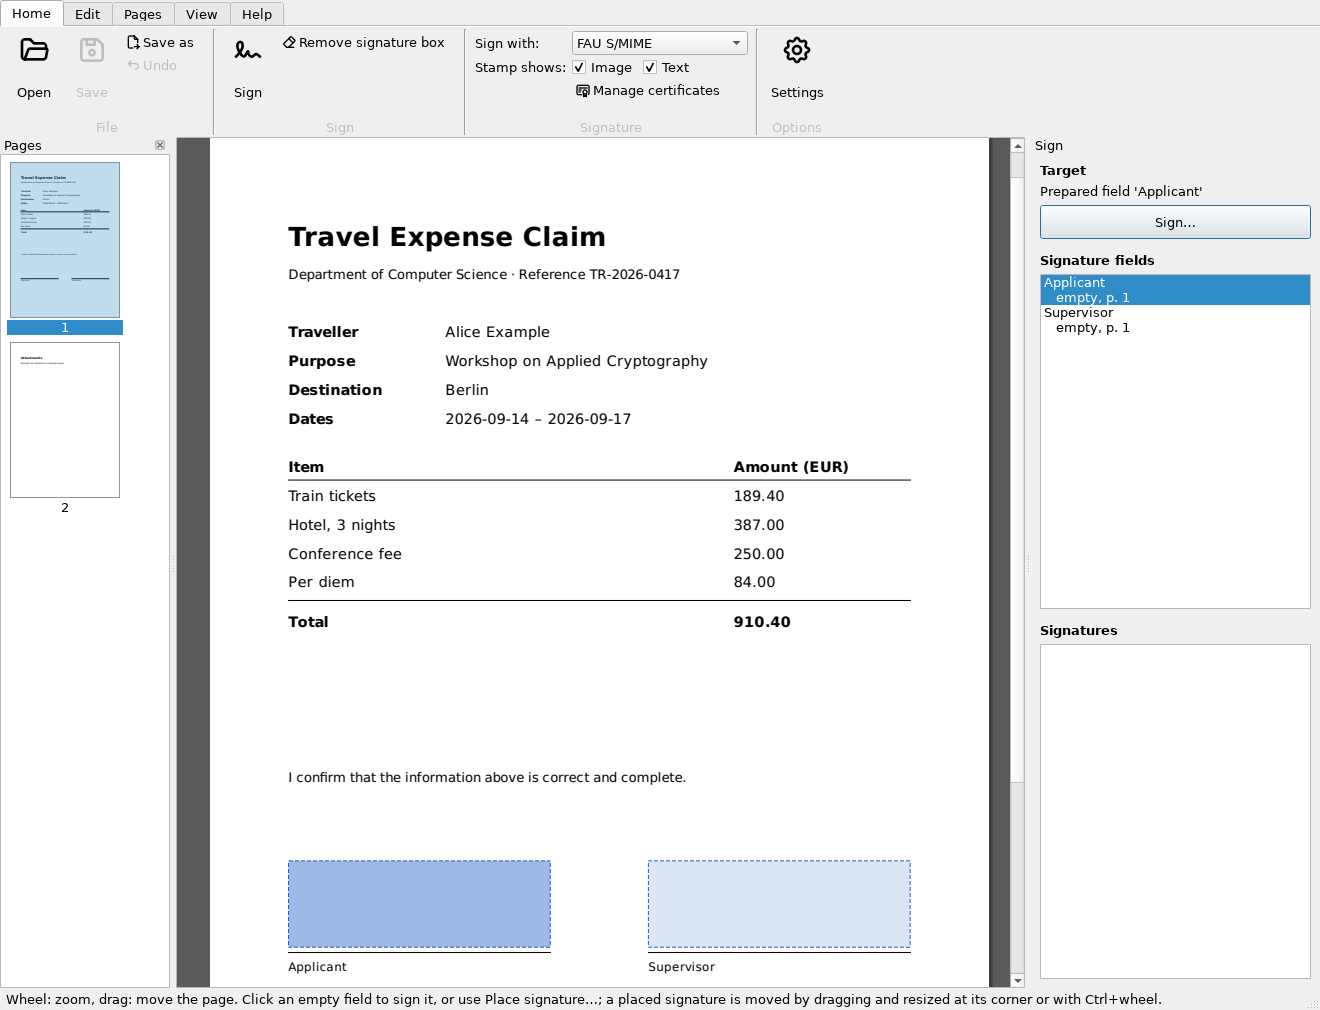
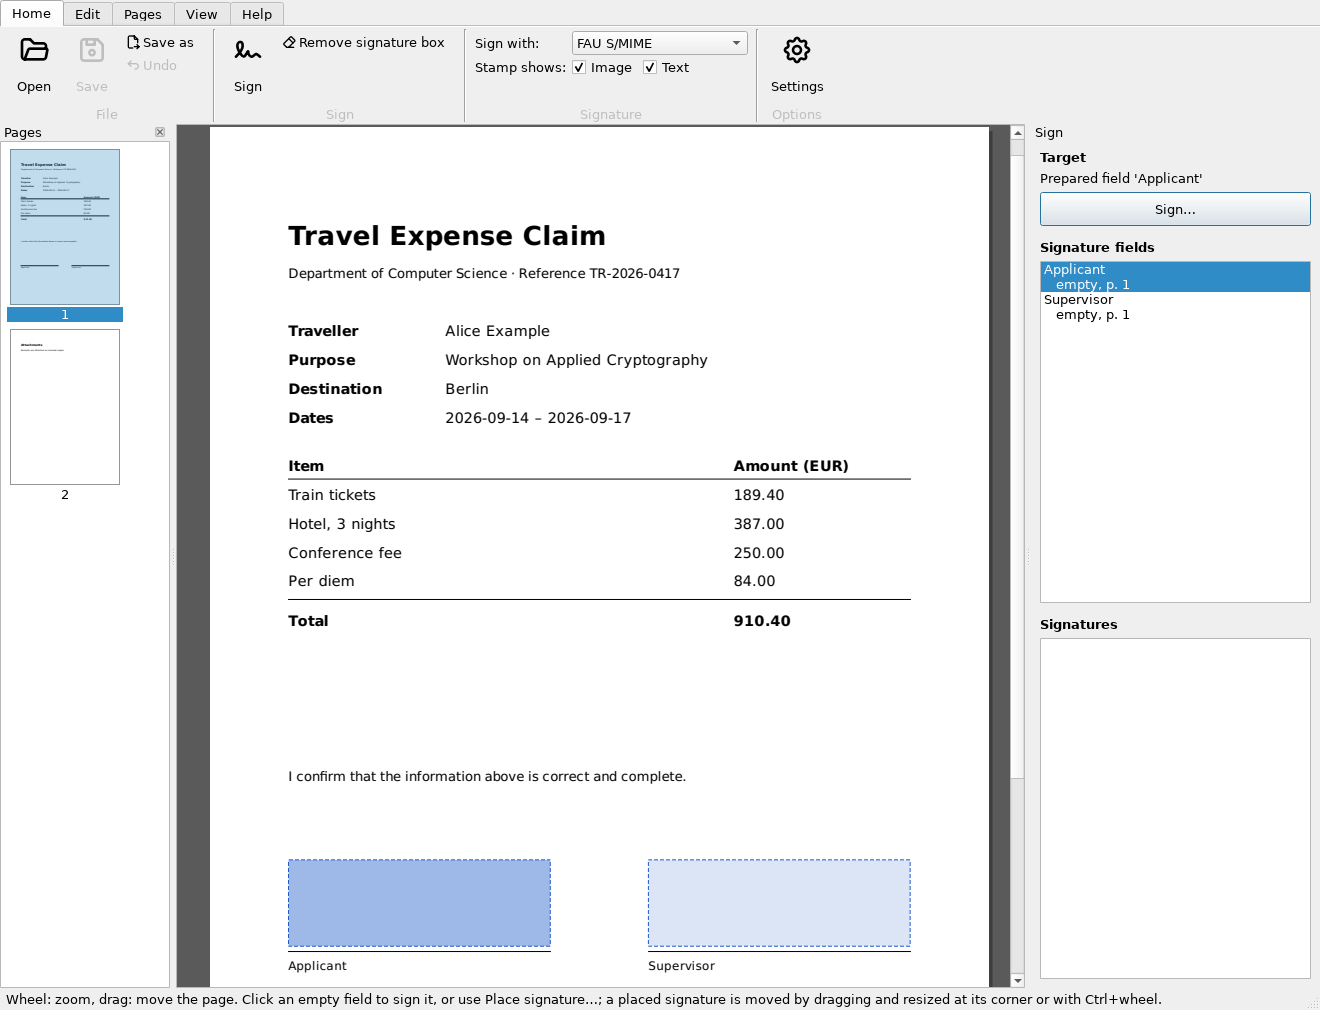
Ribbon: remove Manage certificates…
Certificates are managed on the Certificates tab of Settings…, which
the ribbon already offers; the extra entry point (and its icon) goes.

diff --git a/src/slim_pdf/gui/app.py b/src/slim_pdf/gui/app.py
@@ -8,7 +8,7 @@ import sys
 from importlib import metadata
 from pathlib import Path
 
-from PySide6.QtCore import QLibraryInfo, QLocale, QSize, Qt, QTranslator, QUrl, qVersion
+from PySide6.QtCore import QLibraryInfo, QLocale, Qt, QTranslator, QUrl, qVersion
 from PySide6.QtGui import (
     QAction,
     QColor,
@@ -36,7 +36,6 @@ from PySide6.QtWidgets import (
     QMessageBox,
     QPushButton,
     QSpinBox,
-    QToolButton,
     QVBoxLayout,
     QWidget,
 )
@@ -189,9 +188,6 @@ class MainWindow(QMainWindow):
                                "the chosen field (Esc)"))
         self.settings_act = act(_("Settings…"), self.settings_dialog, QKeySequence.Preferences,
                                 "settings")
-        self.manage_act = act(_("Manage certificates…"), self.manage_certs, None,
-                              "certificate", _("Add, edit or remove certificates (in the "
-                                               "settings)"))
         # what the stamp shows; the certificate is picked in the ribbon's combo box
         self.cert_combo = QComboBox()
         self.cert_combo.setToolTip(_("The certificate to sign with"))
@@ -282,12 +278,6 @@ class MainWindow(QMainWindow):
         row.addWidget(self.text_box)
         row.addStretch()
         fl.addRow(_("Stamp shows:"), stamp)
-        manage = QToolButton()
-        manage.setDefaultAction(self.manage_act)
-        manage.setAutoRaise(True)
-        manage.setToolButtonStyle(Qt.ToolButtonTextBesideIcon)
-        manage.setIconSize(QSize(ribbon.SMALL_ICON, ribbon.SMALL_ICON))
-        fl.addRow("", manage)
         g.add_widget(form)
         g = home.group(_("Options"))
         g.add(self.settings_act)
@@ -481,8 +471,9 @@ class MainWindow(QMainWindow):
     def open_docs(self) -> None:
         QDesktopServices.openUrl(QUrl(DOCS_URL))
 
-    def settings_dialog(self, tab: int = SettingsDialog.GENERAL) -> None:
-        dlg = SettingsDialog(self.config, self, tab)
+    def settings_dialog(self) -> None:
+        """Settings…, also for the certificates (their own tab)."""
+        dlg = SettingsDialog(self.config, self)
         accepted = dlg.exec()
         if not (accepted or dlg.certs.changed):
             return
@@ -496,9 +487,6 @@ class MainWindow(QMainWindow):
         if dlg.language_changed:
             QMessageBox.information(self, _("Settings"),
                                     _("The new language is used after restarting Slim PDF."))
-
-    def manage_certs(self) -> None:
-        self.settings_dialog(SettingsDialog.CERTIFICATES)
 
     # documents ----------------------------------------------------------------
 

diff --git a/tests/test_gui.py b/tests/test_gui.py
@@ -882,14 +882,16 @@ def test_dialog_store_keyring(open_editor, monkeypatch, mem_keyring):
 
 
 def test_manage_updates_main_window(window, monkeypatch, tmp_path):
-    """Certificates… opens the settings on their Certificates tab; profiles
-    are saved as they change, so they stay even when the dialog is cancelled."""
+    """Certificates are managed on the Certificates tab of the settings;
+    profiles are saved as they change, so they stay even when the dialog is
+    cancelled."""
     from slim_pdf.gui import settings as gui_settings
 
     window.config.path = tmp_path / "config.toml"
     seen = []
 
     def fake_exec(self):
+        self.tabs.setCurrentWidget(self.certs)
         seen.append(self.tabs.currentWidget())
         self.config.certs["new"] = CertProfile(name="new", path="x.p12")
         self.certs._write()
@@ -897,7 +899,7 @@ def test_manage_updates_main_window(window, monkeypatch, tmp_path):
         return 0  # cancelled
 
     monkeypatch.setattr(gui_settings.SettingsDialog, "exec", fake_exec)
-    window.manage_act.trigger()
+    window.settings_act.trigger()
     assert [type(w) for w in seen] == [CertManager]
     names = [window.cert_combo.itemData(i) for i in range(window.cert_combo.count())]
     assert names == ["alice", "bob", "new"]
@@ -1524,6 +1526,11 @@ def test_signing_keeps_the_stored_certificate_current(window, form_pdf, save_to,
     assert stored is not None and certinfo.signer_name(stored) == "Alice Example"
 
 
+def page_buttons(rb):
+    return [b for i in range(rb.count())
+            for b in rb.tab_page(i).findChildren(QtWidgets.QToolButton)]
+
+
 def test_ribbon_tabs_and_about(window, monkeypatch):
     """The ribbon replaces the toolbars; Help → About names the version."""
     rb = window.ribbon
@@ -1533,7 +1540,9 @@ def test_ribbon_tabs_and_about(window, monkeypatch):
     home = [b.defaultAction() for b in rb.tab_page(0).findChildren(QtWidgets.QToolButton)]
     assert window.open_act in home and window.sign_act in home
     # everything the sign panel had as controls is in the ribbon now
-    assert window.manage_act in home and window.clear_act in home
+    assert window.settings_act in home and window.clear_act in home
+    texts = [b.text() for b in page_buttons(rb)]
+    assert not any("ertificate" in t for t in texts)  # managed in Settings only
     page = rb.tab_page(0)
     labels = [lbl.text() for lbl in page.findChildren(QtWidgets.QLabel)]
     assert "Sign with:" in labels and "Stamp shows:" in labels

diff --git a/docs/gui.md b/docs/gui.md
@@ -22,8 +22,8 @@ guide show the English version.
   * *Home:* **Open…** (`Ctrl+O`), **Save**, **Save as…**, **Undo**;
     **Place signature… / Sign…** (`Ctrl+S`) and **Remove signature box**
     (`Esc`); the signature's settings: **Sign with** (the certificate),
-    **Stamp shows** *Image* and/or *Text*, **Manage certificates…**;
-    **Settings…**.
+    **Stamp shows** *Image* and/or *Text*; **Settings…** (also for the
+    certificates).
   * *Edit:* **Fill in form…** (see [Filling in forms](#filling-in-forms));
     **Text…** and **Image…** (see [Adding text and images](#adding-text-and-images)).
   * *Pages:* rotate, crop and delete pages (see [Page tools](#page-tools)).
@@ -134,7 +134,7 @@ see now is not exactly what was signed. The tooltip says which changes.
 Click a signature to jump to its page. Double-click it (or click the signed
 field on the page) for its details: the verdict, time, what it covers and
 any problems, then the signer's certificate in the same form as
-*Manage certificates…* → *Details…* shows your own, and pyHanko's full report behind *Full report…*.
+*Settings…* → *Certificates* → *Details…* shows your own, and pyHanko's full report behind *Full report…*.
 The tooltip shows what the signature covers. Extra trusted roots come from
 *Settings…* (or `trust = [...]` in the config file, see
 [cli.md](cli.md#check-signatures-slim-pdf-verify)).
@@ -233,8 +233,8 @@ profiles; **OK** saves them, **Cancel** discards them.
 
 ## Managing certificates
 
-**Manage certificates…** (ribbon, *Home* tab) opens the settings on their
-*Certificates* tab. It edits the same config file as `slim-pdf certs`. It
+Certificates are managed on the *Certificates* tab of **Settings…** (ribbon,
+*Home* tab). It edits the same config file as `slim-pdf certs`. It
 lists the profiles with their type, the certificate's expiry date (red when
 less than 30 days are left) and where the key is:
 
